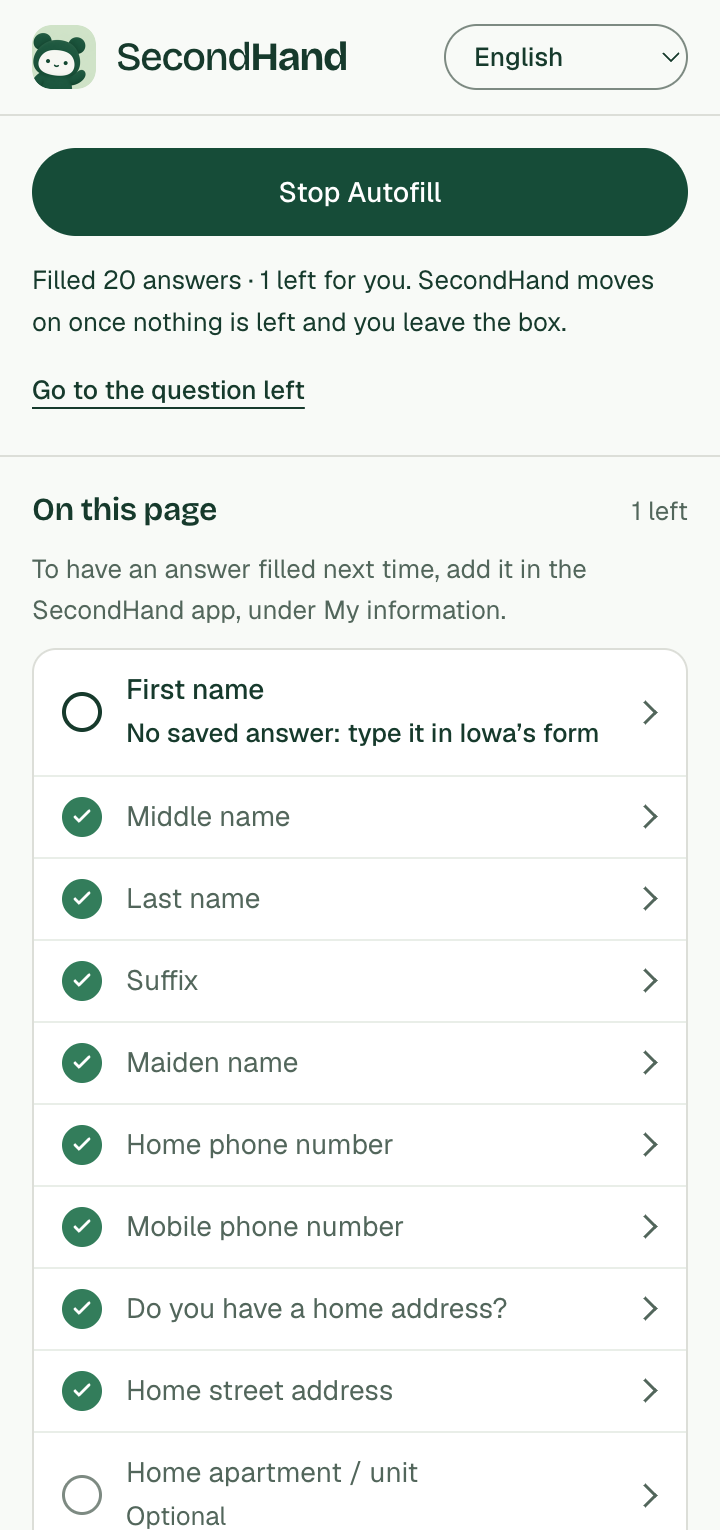
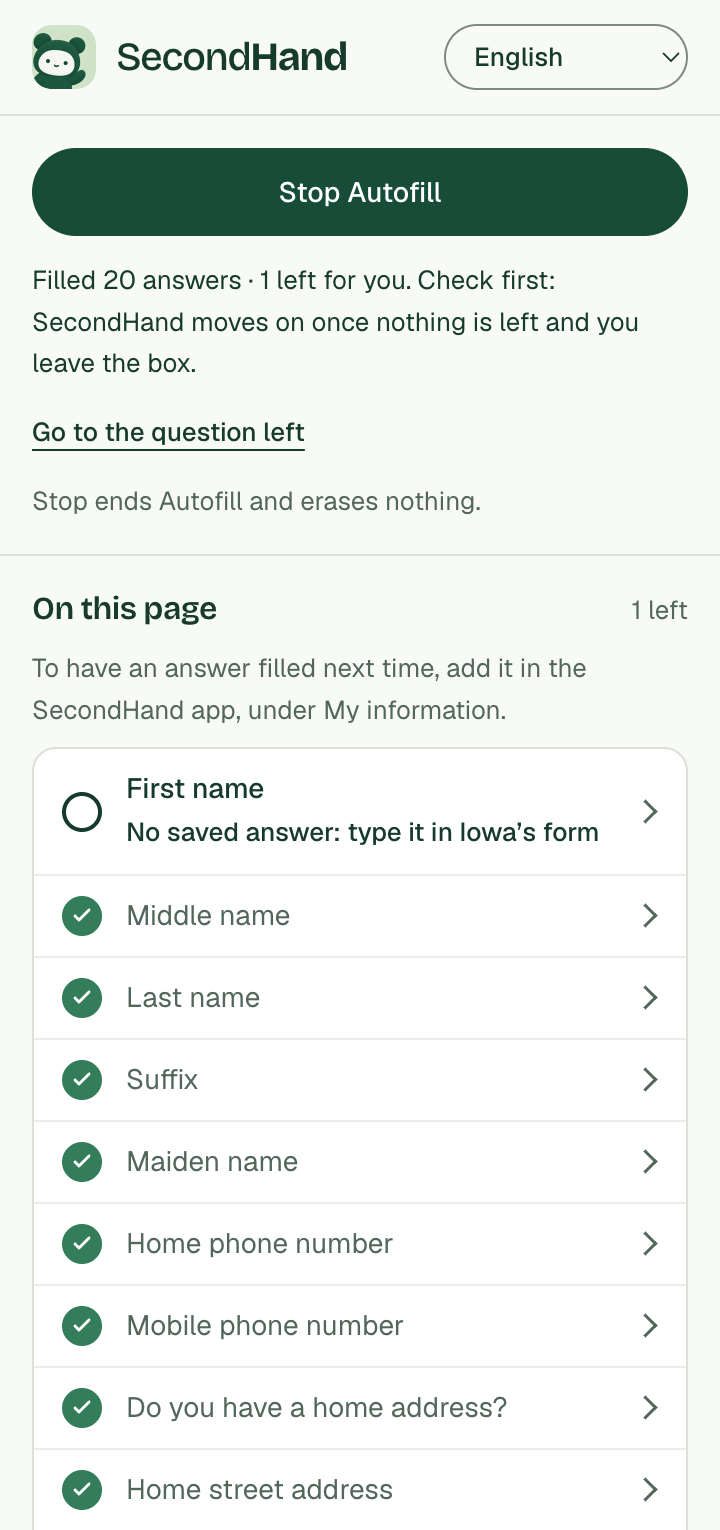
fix: keep "check first" and "Stop erases nothing" on the short waiting line
After the first run, the card's line on a page that waits for answers was
cut to "SecondHand moves on once nothing is left", and Stop's note went with
it. Someone who finishes an application over a few days forgets the rest.
The short line now starts with "Check first", and on that page both the
card and the side panel still say that Stop erases nothing.

diff --git a/extension/strings.js b/extension/strings.js
@@ -405,7 +405,7 @@
 
     'result.filled': { one: 'Filled {count} answer.', other: 'Filled {count} answers.' },
     'result.filledNeedYou': { one: 'Filled {count} answer · {needYou} left for you.', other: 'Filled {count} answers · {needYou} left for you.' },
-    'result.movesOn': 'SecondHand moves on once nothing is left and you leave the box.',
+    'result.movesOn': 'Check first: SecondHand moves on once nothing is left and you leave the box.',
     'result.needYouNotSaved': '{count} left for you, with no saved answer.',
     'result.nothingNew': 'Nothing new to fill.',
     'result.nothingMatches': 'No question here matches your answers in My information.',
@@ -928,7 +928,7 @@
 
     'result.filled': { one: 'Se llenó {count} respuesta.', other: 'Se llenaron {count} respuestas.' },
     'result.filledNeedYou': { one: 'Se llenó {count} respuesta · {needYou} sin contestar.', other: 'Se llenaron {count} respuestas · {needYou} sin contestar.' },
-    'result.movesOn': 'SecondHand avanzará cuando no falte nada y usted salga de la casilla.',
+    'result.movesOn': 'Revise primero: SecondHand avanzará cuando no falte nada y usted salga de la casilla.',
     'result.needYouNotSaved': 'Por contestar: {count}. No están en su perfil guardado.',
     'result.nothingNew': 'No hay nada nuevo que llenar.',
     'result.nothingMatches': 'Ninguna pregunta de esta página coincide con sus respuestas en “My information”.',
@@ -1449,7 +1449,7 @@
 
     'result.filled': { one: 'Đã điền {count} câu trả lời.', other: 'Đã điền {count} câu trả lời.' },
     'result.filledNeedYou': { one: 'Đã điền {count} câu trả lời · {needYou} mục cần bạn.', other: 'Đã điền {count} câu trả lời · {needYou} mục cần bạn.' },
-    'result.movesOn': 'SecondHand sẽ đi tiếp khi không còn gì và bạn đã rời khỏi ô.',
+    'result.movesOn': 'Hãy kiểm tra trước: SecondHand sẽ đi tiếp khi không còn gì và bạn đã rời khỏi ô.',
     'result.needYouNotSaved': '{count} mục cần bạn. Chúng không có trong hồ sơ đã lưu của bạn.',
     'result.nothingNew': 'Không có gì mới để điền.',
     'result.nothingMatches': 'Không có câu hỏi nào ở đây khớp với câu trả lời của bạn trong “My information”.',
@@ -1971,7 +1971,7 @@
 
     'result.filled': { one: '已填写 {count} 个答案。', other: '已填写 {count} 个答案。' },
     'result.filledNeedYou': { one: '已填写 {count} 个答案 · {needYou} 项需要您处理。', other: '已填写 {count} 个答案 · {needYou} 项需要您处理。' },
-    'result.movesOn': '全部填完并离开输入框后，SecondHand 会继续。',
+    'result.movesOn': '请先核对：全部填完并离开输入框后，SecondHand 会继续。',
     'result.needYouNotSaved': '{count} 项需要您处理。它们不在您保存的资料中。',
     'result.nothingNew': '没有新的内容需要填写。',
     'result.nothingMatches': '这里没有问题与您在“My information”中的答案相符。',
@@ -2493,7 +2493,7 @@
 
     'result.filled': { one: '{count} réponse remplie.', other: '{count} réponses remplies.' },
     'result.filledNeedYou': { one: '{count} réponse remplie · {needYou} pour vous.', other: '{count} réponses remplies · {needYou} pour vous.' },
-    'result.movesOn': 'SecondHand avance quand plus rien ne manque et que vous quittez la case.',
+    'result.movesOn': 'Vérifiez d’abord : SecondHand avance quand plus rien ne manque et que vous quittez la case.',
     'result.needYouNotSaved': '{count} question(s) pour vous. Elles ne sont pas dans votre profil enregistré.',
     'result.nothingNew': 'Rien de nouveau à remplir.',
     'result.nothingMatches': 'Aucune question ici ne correspond à vos réponses dans « My information ».',
@@ -3015,7 +3015,7 @@
 
     'result.filled': { one: 'الإجابات المعبأة: {count}.', other: 'الإجابات المعبأة: {count}.' },
     'result.filledNeedYou': { one: 'الإجابات المعبأة: {count} · بحاجة إليك: {needYou}.', other: 'الإجابات المعبأة: {count} · بحاجة إليك: {needYou}.' },
-    'result.movesOn': 'يتابع SecondHand عندما لا يتبقى شيء وتخرج من الخانة.',
+    'result.movesOn': 'راجع أولًا: يتابع SecondHand عندما لا يتبقى شيء وتخرج من الخانة.',
     'result.needYouNotSaved': 'بحاجة إليك: {count}. هذه الأسئلة ليست في ملفك المحفوظ.',
     'result.nothingNew': 'لا يوجد شيء جديد للتعبئة.',
     'result.nothingMatches': 'لا يوجد سؤال هنا يطابق إجاباتك في “My information”.',

diff --git a/extension/panel.js b/extension/panel.js
@@ -207,14 +207,16 @@
       // it carries that. While Autofill is on, what Stop would do goes after it: on a page that waits for answers,
       // where SecondHand clicks Save and Continue once nothing is left and the reader leaves the box they typed
       // in, that Stop lets the reader check and continue themselves. A reader who has seen a whole run gets the
-      // short form, without Stop's note. Why Chrome's AI guessed nothing stays in the tooltip. Household
-      // questions the household list left open (#180) wait in the side panel, which lists them with Add your
-      // household: the card says so after the rest.
+      // short form: on that page, still that Stop erases nothing; anywhere else, no note. Why Chrome's AI
+      // guessed nothing stays in the tooltip. Household questions the household list left open (#180) wait in
+      // the side panel, which lists them with Add your household: the card says so after the rest.
       const household = Array.isArray(result.household?.questions) ? result.household.questions.length : 0;
       const said = words(briefly(withLeft(fromResult(result), 0)), 240);
       const text = household ? `${said} ${t('widget.household', { count: household })}` : said;
-      if (!autopilot || usedBefore()) return text;
-      const stop = t(result.todoKey === CHECK_FIRST ? 'widget.stopToCheck' : 'widget.stopNote');
+      if (!autopilot) return text;
+      const checking = result.todoKey === CHECK_FIRST;
+      if (usedBefore() && !checking) return text;
+      const stop = t(checking && !usedBefore() ? 'widget.stopToCheck' : 'widget.stopNote');
       return `${/[.!?…。]$/.test(text) ? text : `${text}.`} ${stop}`;
     }
     function render() {
@@ -659,9 +661,10 @@
       // Where the questions left are listed by name, each row goes to its own.
       $('panel-left').hidden = !target || !left.length || named.length > 0;
       // While Autofill is on, what its button does now: on a page that waits for answers, that it lets the reader
-      // check and continue themselves. A reader who has seen a whole run knows.
-      $('stop-note').hidden = !target || !autopilot || usedBefore();
-      $('stop-note').textContent = t(checkFirst ? 'panel.stopToCheck' : 'panel.stopNote');
+      // check and continue themselves. A reader who has seen a whole run knows, but on that page still reads
+      // that Stop erases nothing.
+      $('stop-note').hidden = !target || !autopilot || (usedBefore() && !checkFirst);
+      $('stop-note').textContent = t(checkFirst && !usedBefore() ? 'panel.stopToCheck' : 'panel.stopNote');
       $('panel-left').disabled = working;
       $('open-iowa').hidden = Boolean(target) || !away || halted;
       $('panel-left').textContent = t('panel.goToLeft', { count: left.length || 1 });
